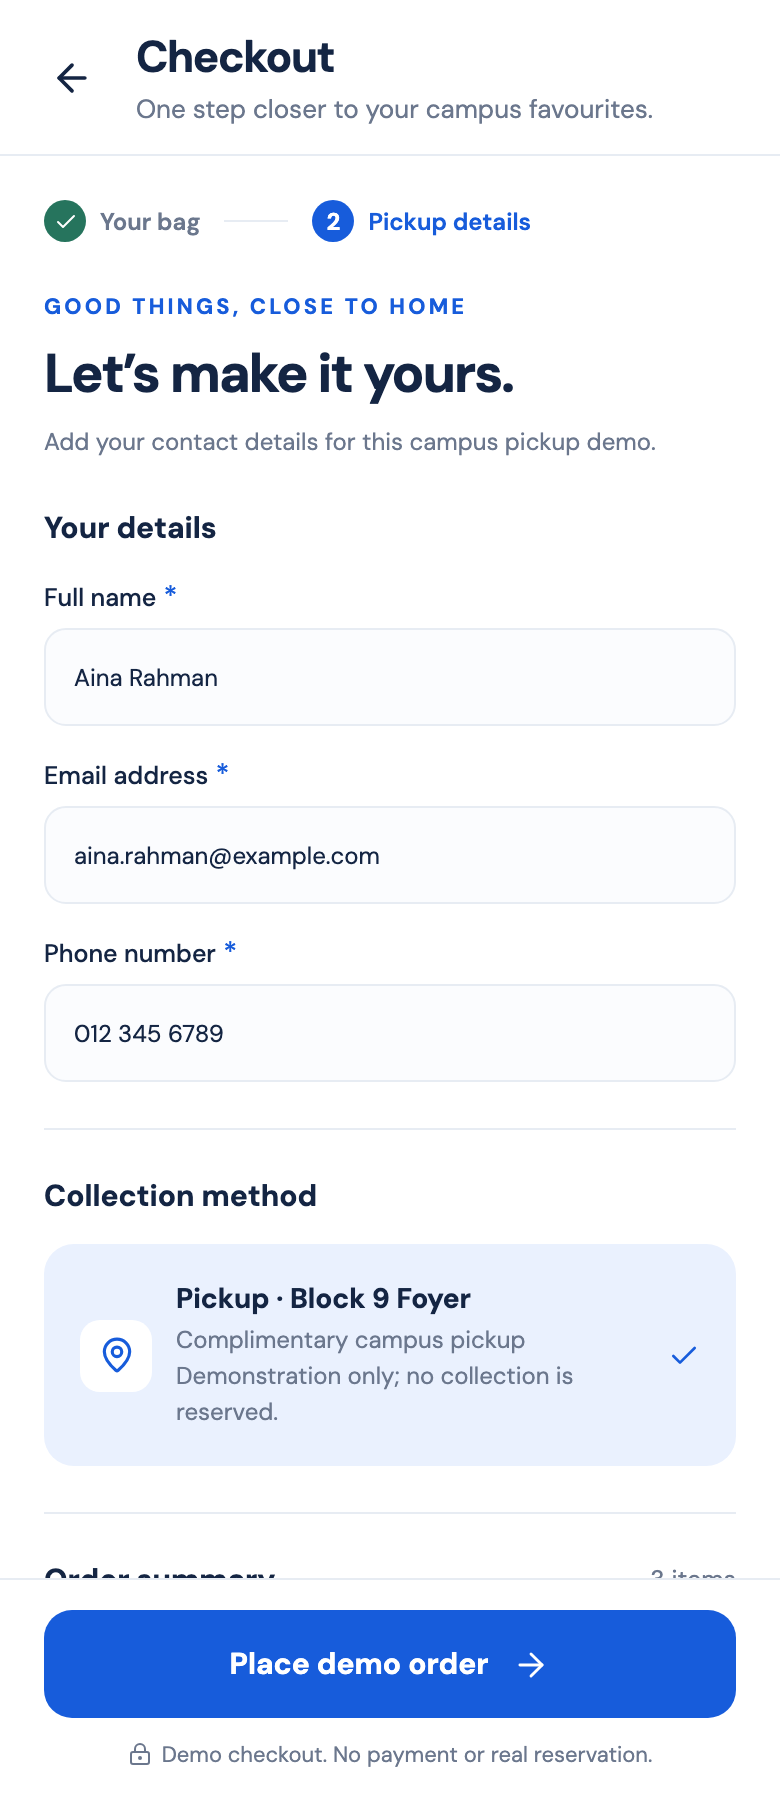
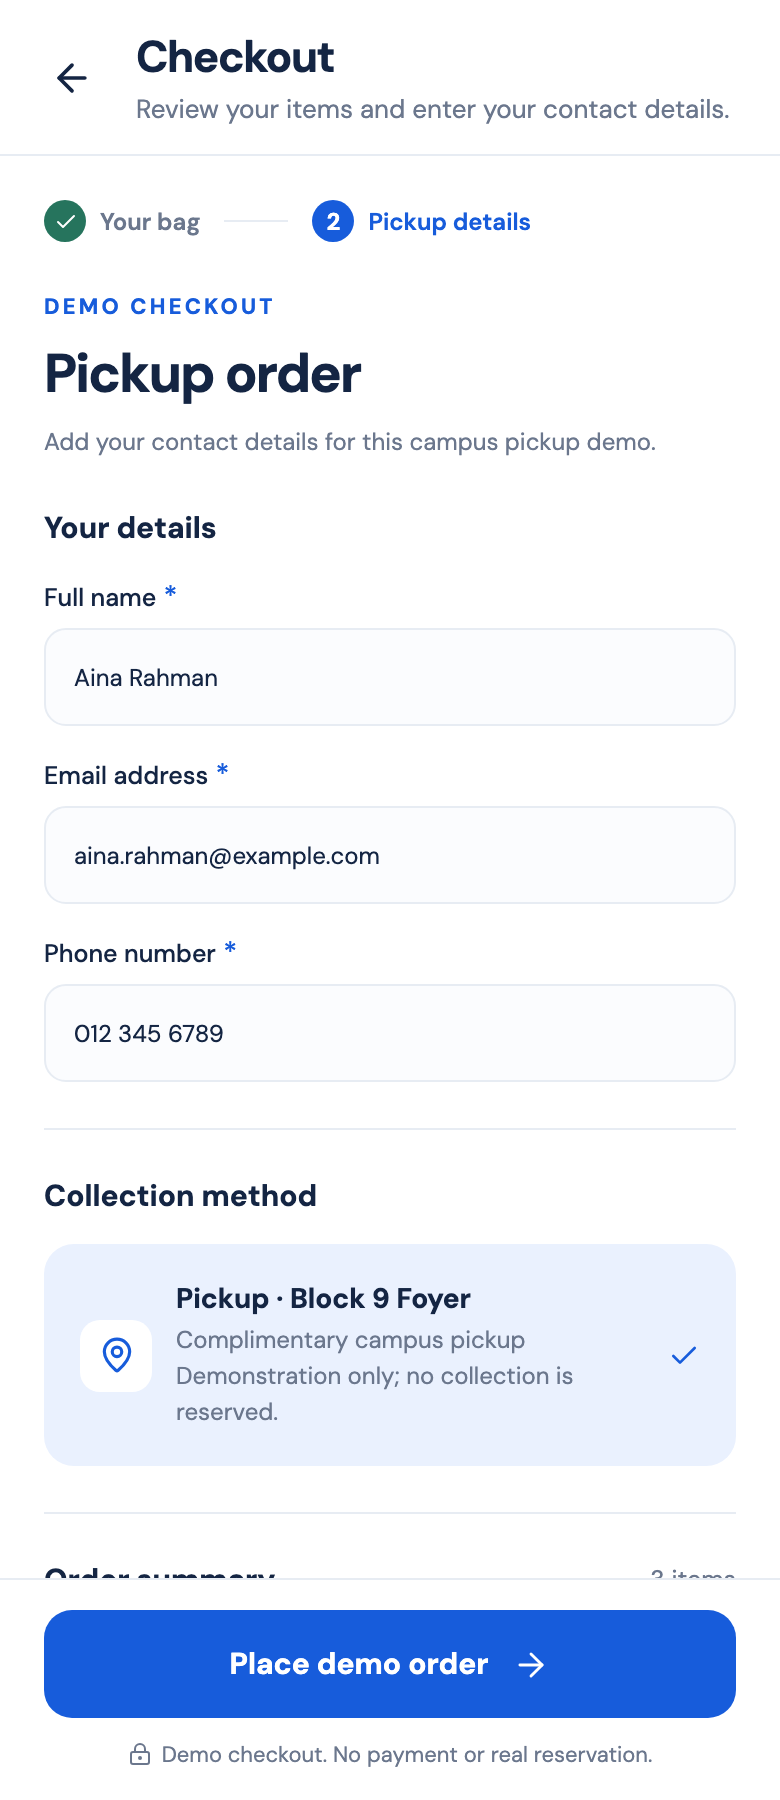
Replace promotional filler with clear shopping copy

diff --git a/src/data/products.ts b/src/data/products.ts
@@ -11,8 +11,7 @@ export const products: Product[] = [
     price: 4900,
     badge: 'Bestseller',
     sizes,
-    description:
-      'A little campus pride, wherever the day takes you. Our signature crest tee pairs an easy, relaxed fit with soft cotton you will reach for on repeat.',
+    description: 'A relaxed-fit cotton T-shirt with the KLUST crest.',
     details: [
       '100% cotton · 200 gsm',
       'Relaxed unisex fit',
@@ -40,13 +39,12 @@ export const products: Product[] = [
   {
     id: 'campus-mug',
     name: 'The Campus Mug',
-    collection: 'LITTLE CAMPUS RITUALS',
+    collection: 'MUG COLLECTION',
     category: 'mugs',
     price: 2900,
-    badge: 'Campus favourite',
+    badge: 'Crest design',
     capacity: '350 ml',
-    description:
-      'For early lectures, late study sessions, and everything in between. A comfortable ceramic mug with our university crest and a generous everyday pour.',
+    description: 'A 350 ml glazed ceramic mug with the KLUST crest and a curved handle.',
     details: [
       'Glazed ceramic · 350 ml',
       'Comfortable curved handle',
@@ -70,8 +68,7 @@ export const products: Product[] = [
     price: 5500,
     sizes,
     badge: 'New arrival',
-    description:
-      'Big university energy in a laid-back silhouette. Varsity lettering and our crest make this a new favourite for class days and weekends.',
+    description: 'A relaxed-fit cotton T-shirt with varsity lettering and the KLUST crest.',
     details: [
       '100% cotton · 220 gsm',
       'Relaxed unisex fit',
@@ -98,8 +95,7 @@ export const products: Product[] = [
     category: 'tshirts',
     price: 4500,
     sizes,
-    description:
-      'Clean, simple, and unmistakably KLUST. A smaller crest placement keeps things understated, with soft cotton doing the rest.',
+    description: 'A regular-fit cotton T-shirt with a small chest crest print.',
     details: [
       '100% cotton · 180 gsm',
       'Regular unisex fit',
@@ -118,12 +114,11 @@ export const products: Product[] = [
   {
     id: 'crest-mug',
     name: 'The Crest Mug',
-    collection: 'LITTLE CAMPUS RITUALS',
+    collection: 'MUG COLLECTION',
     category: 'mugs',
     price: 3200,
     capacity: '350 ml',
-    description:
-      'A navy finish, a familiar crest, and your favourite drink. An easy addition to your desk or a thoughtful gift for a fellow student.',
+    description: 'A 350 ml glazed ceramic mug with the KLUST crest and a contrast white interior.',
     details: [
       'Glazed ceramic · 350 ml',
       'Contrast white interior',
@@ -146,8 +141,7 @@ export const products: Product[] = [
     category: 'tshirts',
     price: 4900,
     sizes,
-    description:
-      'An off-duty essential with a campus twist. The easy shape and university print go just as well with jeans as they do with your favourite joggers.',
+    description: 'A relaxed-fit cotton T-shirt with the KLUST crest and campus lettering.',
     details: [
       '100% cotton · 200 gsm',
       'Relaxed unisex fit',
@@ -174,8 +168,7 @@ export const products: Product[] = [
     category: 'tshirts',
     price: 5900,
     sizes,
-    description:
-      'Bring a little team spirit to your everyday rotation. A bold crest and sporty stripes give this cotton tee its distinctive campus character.',
+    description: 'A relaxed-fit cotton T-shirt with a KLUST graphic and sporty stripes.',
     details: [
       '100% cotton · 220 gsm',
       'Relaxed unisex fit',
@@ -198,12 +191,11 @@ export const products: Product[] = [
   {
     id: 'daily-mug',
     name: 'The Daily Mug',
-    collection: 'LITTLE CAMPUS RITUALS',
+    collection: 'MUG COLLECTION',
     category: 'mugs',
     price: 2500,
     capacity: '300 ml',
-    description:
-      'Small rituals make busy days better. This compact ceramic mug adds a familiar KLUST touch to your morning coffee or evening tea.',
+    description: 'A compact 300 ml glazed ceramic mug with the KLUST crest.',
     details: [
       'Glazed ceramic · 300 ml',
       'Compact everyday shape',
@@ -226,8 +218,7 @@ export const products: Product[] = [
     category: 'tshirts',
     price: 3900,
     sizes,
-    description:
-      'Your everyday staple, made a little more personal. A classic cut with the university crest for an easy introduction to the campus collection.',
+    description: 'A regular-fit cotton T-shirt with the KLUST crest.',
     details: [
       '100% cotton · 180 gsm',
       'Regular unisex fit',
@@ -254,8 +245,7 @@ export const products: Product[] = [
     category: 'tshirts',
     price: 5500,
     sizes,
-    description:
-      'Keep a piece of campus with you. Bold alumni lettering, the university crest, and a comfortable fit made for your next chapter.',
+    description: 'A relaxed-fit cotton T-shirt with alumni lettering and the KLUST crest.',
     details: [
       '100% cotton · 220 gsm',
       'Relaxed unisex fit',
@@ -274,12 +264,11 @@ export const products: Product[] = [
   {
     id: 'duo-mug',
     name: 'The Two Tone Mug',
-    collection: 'LITTLE CAMPUS RITUALS',
+    collection: 'MUG COLLECTION',
     category: 'mugs',
     price: 3500,
     capacity: '400 ml',
-    description:
-      'A bigger cup for longer conversations. A two-tone finish frames the KLUST crest, with plenty of room for your favourite brew.',
+    description: 'A 400 ml glazed ceramic mug with a contrast handle and rim.',
     details: [
       'Glazed ceramic · 400 ml',
       'Contrast colour handle and rim',
@@ -298,8 +287,7 @@ export const products: Product[] = [
     category: 'tshirts',
     price: 5200,
     sizes,
-    description:
-      'For curious minds and full calendars. A clean crest graphic and comfortable cotton fit make a dependable companion for the campus day.',
+    description: 'A relaxed-fit cotton T-shirt with the KLUST crest and knowledge lettering.',
     details: [
       '100% cotton · 200 gsm',
       'Relaxed unisex fit',

diff --git a/src/screens/ShopScreen.tsx b/src/screens/ShopScreen.tsx
@@ -86,7 +86,7 @@ export function ShopScreen() {
               <Search size={18} color={c.muted} strokeWidth={1.8} />
               <TextInput
                 accessibilityLabel="Search products"
-                placeholder="Find your campus favourites"
+                placeholder="Search products"
                 placeholderTextColor="#8A94A5"
                 value={search}
                 onChangeText={setSearch}
@@ -125,10 +125,8 @@ export function ShopScreen() {
               onLayout={(event) => setCatalogOffset(event.nativeEvent.layout.y)}
             >
               <View>
-                <Eyebrow>WEAR IT. USE IT. MAKE IT YOURS.</Eyebrow>
-                <Label style={s.sectionTitle}>
-                  {search ? 'Search results' : 'Campus essentials'}
-                </Label>
+                <Eyebrow>PRODUCT CATALOG</Eyebrow>
+                <Label style={s.sectionTitle}>{search ? 'Search results' : 'Products'}</Label>
               </View>
               <Label muted style={{ fontSize: 12, marginBottom: 3 }}>
                 {upcoming ? 'Coming soon' : `${filtered.length} items`}
@@ -217,11 +215,11 @@ export function ShopScreen() {
           <View style={{ alignItems: 'center', paddingVertical: 50 }}>
             <Search size={30} color={c.muted} />
             <Label style={{ fontFamily: fonts.bold, fontSize: 19, marginTop: 16 }}>
-              {upcoming ? 'More coming soon' : 'No campus finds just yet'}
+              {upcoming ? 'More coming soon' : 'No matching products'}
             </Label>
             <Label muted style={{ textAlign: 'center', lineHeight: 22, marginTop: 10 }}>
               {upcoming
-                ? 'More campus favourites are on the way. Browse our T-shirts and mugs while you wait.'
+                ? 'Additional categories are not available yet. T-shirts and mugs are available now.'
                 : 'Try another search or choose a different category.'}
             </Label>
             <Pressable
@@ -252,7 +250,7 @@ export function ShopScreen() {
                 style={{ width: 27, height: 27 }}
               />
               <Label muted style={{ fontSize: 11, textAlign: 'center', lineHeight: 18 }}>
-                A little campus. Everywhere.{`\n`}KLUST Campus Store · Demonstration collection
+                KLUST Campus Store · Demo
               </Label>
             </View>
           ) : undefined

diff --git a/src/screens/CartScreen.tsx b/src/screens/CartScreen.tsx
@@ -17,9 +17,7 @@ export function CartScreen() {
       <PageHeader
         title="Your bag"
         subtitle={
-          itemCount
-            ? `${itemCount} ${itemCount === 1 ? 'campus favourite' : 'campus favourites'}, ready for you.`
-            : 'A little room for your next favourite.'
+          itemCount ? `${itemCount} ${itemCount === 1 ? 'item' : 'items'} in your bag` : undefined
         }
         right={
           <View style={s.count}>
@@ -32,9 +30,9 @@ export function CartScreen() {
       {!cart.length ? (
         <EmptyState
           icon={ShoppingBag}
-          title="Your bag is taking a break"
-          description="Find a tee for your next class or a mug for your morning ritual. Your campus favourites are waiting."
-          action="Explore the collection"
+          title="Your bag is empty"
+          description="Add products to your bag to continue to checkout."
+          action="Browse products"
           onAction={shop}
         />
       ) : (
@@ -54,7 +52,7 @@ export function CartScreen() {
             </Pressable>
             <PickupCard compact />
             <View style={s.summary}>
-              <Eyebrow>THE LITTLE DETAILS</Eyebrow>
+              <Eyebrow>ORDER SUMMARY</Eyebrow>
               <View style={s.summaryLine}>
                 <Label muted>Subtotal</Label>
                 <Label style={{ fontFamily: fonts.semibold }}>{money(total)}</Label>

diff --git a/src/screens/CheckoutScreen.tsx b/src/screens/CheckoutScreen.tsx
@@ -70,7 +70,7 @@ export function CheckoutScreen({
         <EmptyState
           icon={ShoppingBag}
           title="Your bag is empty"
-          description="Add something from the collection before placing a pickup order."
+          description="Add products to your bag to continue to checkout."
           action="Back to Shop"
           onAction={() => navigation.popTo('Main', { screen: 'Shop' })}
         />
@@ -84,7 +84,7 @@ export function CheckoutScreen({
     >
       <PageHeader
         title="Checkout"
-        subtitle="One step closer to your campus favourites."
+        subtitle="Review your items and enter your contact details."
         back={saving ? undefined : () => navigation.goBack()}
       />
       <ScrollView
@@ -104,8 +104,8 @@ export function CheckoutScreen({
           </View>
           <Label style={[s.progressLabel, { color: c.blue }]}>Pickup details</Label>
         </View>
-        <Eyebrow style={{ color: c.blue, fontSize: 11 }}>GOOD THINGS, CLOSE TO HOME</Eyebrow>
-        <Label style={s.title}>Let’s make it yours.</Label>
+        <Eyebrow style={{ color: c.blue, fontSize: 11 }}>DEMO CHECKOUT</Eyebrow>
+        <Label style={s.title}>Pickup order</Label>
         <Label muted style={{ fontSize: 12, lineHeight: 20, marginTop: 7, marginBottom: 23 }}>
           Add your contact details for this campus pickup demo.
         </Label>

diff --git a/src/screens/ReceiptScreen.tsx b/src/screens/ReceiptScreen.tsx
@@ -42,12 +42,10 @@ export function ReceiptScreen({
           <View style={s.sparkleRight}>
             <Sparkles size={14} color="#80A4E1" />
           </View>
-          <Eyebrow style={{ color: c.blue, marginTop: 22 }}>
-            A LITTLE CAMPUS IS COMING YOUR WAY
-          </Eyebrow>
-          <Label style={s.title}>Good choice, {order.customer.name.split(' ')[0]}.</Label>
+          <Eyebrow style={{ color: c.blue, marginTop: 22 }}>ORDER CONFIRMATION</Eyebrow>
+          <Label style={s.title}>Demo order saved</Label>
           <Label muted style={{ textAlign: 'center', fontSize: 12, lineHeight: 20, marginTop: 9 }}>
-            Your demo order is saved.{`\n`}Here’s a little recap of your campus favourites.
+            Your receipt is saved on this device.
           </Label>
         </View>
         <View style={s.receipt}>
@@ -104,7 +102,7 @@ export function ReceiptScreen({
           This is a demonstration receipt. No payment was taken, no email was sent, and no real
           collection has been reserved.
         </Label>
-        <Button title="Keep exploring" onPress={() => goTo('Shop')} />
+        <Button title="Browse products" onPress={() => goTo('Shop')} />
         <Button
           title="View my orders"
           onPress={() => goTo('Orders')}

diff --git a/src/screens/ProductScreen.tsx b/src/screens/ProductScreen.tsx
@@ -37,7 +37,7 @@ export function ProductScreen({
       <EmptyState
         icon={Package}
         title="Product not found"
-        description="Return to the collection to find your next campus favourite."
+        description="This product is unavailable. Browse the catalog to choose another item."
         action="Back to Shop"
         onAction={() => navigation.popTo('Main', { screen: 'Shop' })}
       />
@@ -142,7 +142,7 @@ export function ProductScreen({
           <View style={s.quality}>
             <CheckCircle2 size={14} color={c.green} />
             <Label style={{ fontSize: 12, color: c.green, fontFamily: fonts.medium }}>
-              Campus pride, thoughtfully made
+              KLUST merchandise
             </Label>
           </View>
           <Label muted style={{ fontSize: 14, lineHeight: 22, marginTop: 14 }}>
@@ -242,7 +242,7 @@ export function ProductScreen({
             />
           </View>
           <View style={s.divider} />
-          <Label style={[s.optionLabel, { marginBottom: 12 }]}>The details</Label>
+          <Label style={[s.optionLabel, { marginBottom: 12 }]}>Product details</Label>
           {product.details.map((detail) => (
             <View key={detail} style={s.detail}>
               <View style={s.detailDot} />

diff --git a/src/components/CollectionHero.tsx b/src/components/CollectionHero.tsx
@@ -21,18 +21,18 @@ export function CollectionHero({ onExplore }: { onExplore: () => void }) {
         />
       </View>
       <View style={s.copy}>
-        <Label style={s.title}>Campus pride.{`\n`}Every day.</Label>
-        <Label style={s.description}>Your next favourite tee. Your everyday mug.</Label>
+        <Label style={s.title}>KLUST Campus Store</Label>
+        <Label style={s.description}>T-shirts and mugs with KLUST designs.</Label>
         <Pressable
           accessibilityRole="button"
-          accessibilityLabel="Shop the collection"
+          accessibilityLabel="Browse products"
           onPress={onExplore}
           style={({ pressed }) => [s.button, pressed && { opacity: 0.8 }]}
         >
-          <Label style={s.buttonLabel}>Shop the collection</Label>
+          <Label style={s.buttonLabel}>Browse products</Label>
           <ArrowRight size={17} color={c.navy} strokeWidth={1.8} />
         </Pressable>
-        <Label style={s.note}>Explore our T-shirts & mugs</Label>
+        <Label style={s.note}>Guest checkout · Campus pickup</Label>
       </View>
     </View>
   );

diff --git a/src/screens/OrdersScreen.tsx b/src/screens/OrdersScreen.tsx
@@ -12,13 +12,13 @@ export function OrdersScreen() {
   const navigation = useNavigation<AppNavigation>();
   return (
     <View style={{ flex: 1, backgroundColor: c.white }}>
-      <PageHeader title="Your orders" subtitle="A little history of your campus favourites." />
+      <PageHeader title="Your orders" subtitle="Demo orders saved on this device." />
       {!orders.length ? (
         <EmptyState
           icon={ClipboardList}
-          title="Your story starts here"
-          description="Once you place a demo order, you can find its details and pickup summary right here."
-          action="Find your first favourite"
+          title="No orders yet"
+          description="Your demo orders and receipts will appear here after checkout."
+          action="Browse products"
           onAction={() => navigation.navigate('Main', { screen: 'Shop' })}
         />
       ) : (

diff --git a/src/navigation/AppNavigator.tsx b/src/navigation/AppNavigator.tsx
@@ -106,7 +106,7 @@ export function AppNavigator() {
       <View style={{ flex: 1, justifyContent: 'center', alignItems: 'center' }}>
         <ActivityIndicator color={c.blue} />
         <Label muted style={{ marginTop: 12, fontSize: 12 }}>
-          Getting your campus favourites ready…
+          Loading store…
         </Label>
       </View>
     );

diff --git a/src/components/ui.tsx b/src/components/ui.tsx
@@ -233,7 +233,7 @@ export function Brand() {
           KLUST<Label style={{ fontFamily: fonts.regular, fontSize: 18 }}> / store</Label>
         </Label>
         <Label muted style={{ fontSize: 9, letterSpacing: 1.6, marginTop: 2 }}>
-          A LITTLE CAMPUS. EVERYWHERE.
+          CAMPUS MERCHANDISE
         </Label>
       </View>
     </View>
